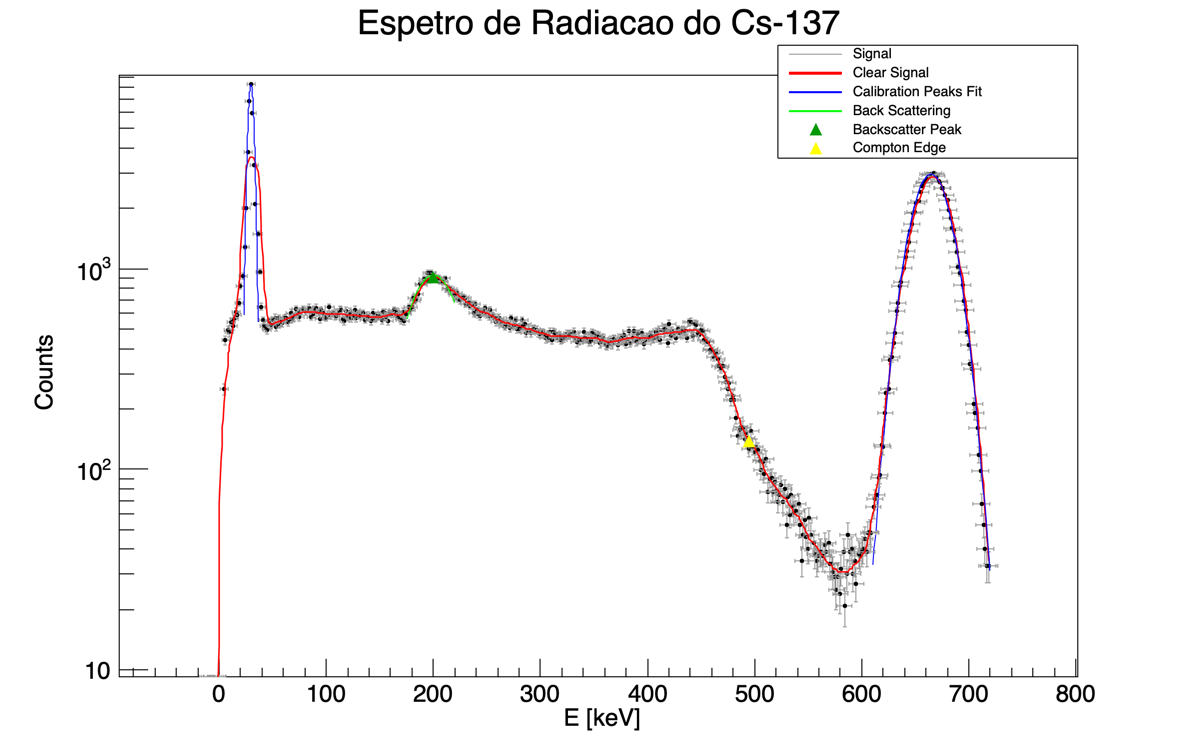
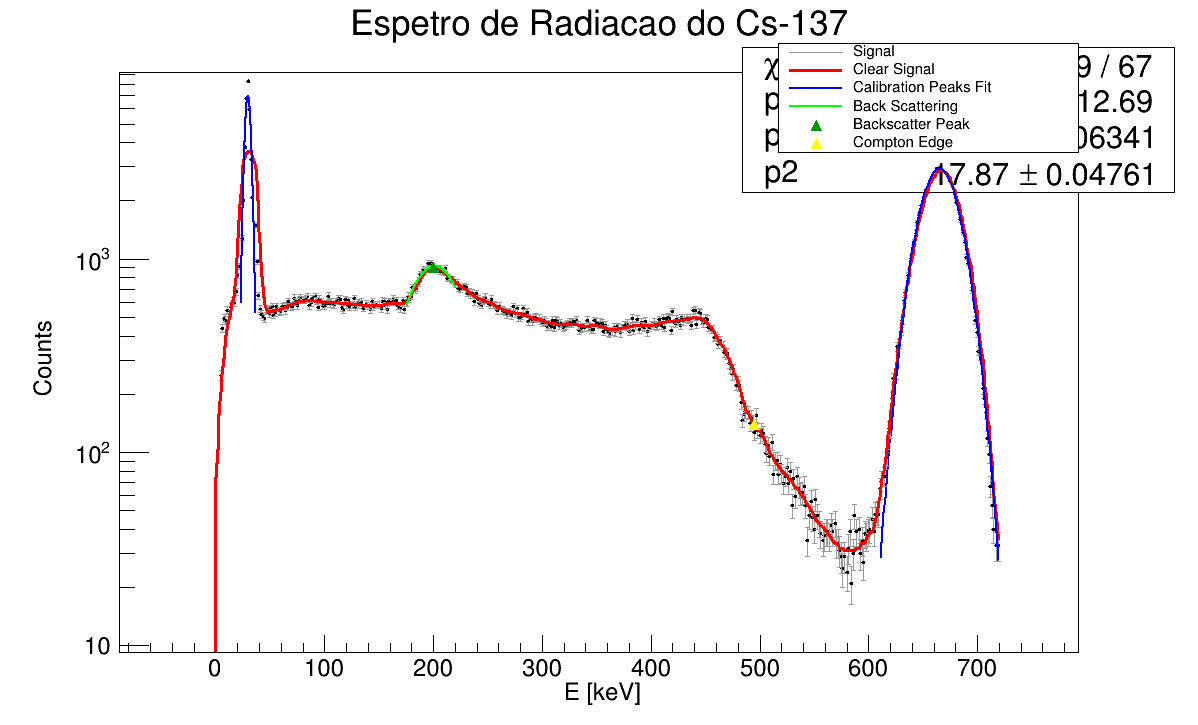
mudanca ex

diff --git a/Gama/main/Analise.cpp b/Gama/main/Analise.cpp
@@ -119,7 +119,7 @@ int main(){
     c1.Update();
     c1.SaveAs("Graphs/Espetro_Ambiente_Smoothed.png");
     c1.WaitPrimitive();
-    A.Run("TRUE");
+    //A.Run("TRUE");
     gSystem->ProcessEvents();
 
         
@@ -134,7 +134,7 @@ int main(){
         if(rad_cs[i].first < 720){
             n = G_Cs.GetN();
             G_Cs.SetPoint(n, rad_cs[i].first, rad_cs[i].second);
-            G_Cs.SetPointError(n,0.006*rad_cs[i].first+3.6,sqrt(rad_cs[i].second));
+            G_Cs.SetPointError(n,0/*0.006*rad_cs[i].first+3.6*/,sqrt(rad_cs[i].second));
         }
     }
     G_Cs.SetLineColor(kGray+1);
@@ -251,7 +251,7 @@ int main(){
         if(rad_co[i].first > 1400){continue;}
         n = G_Co.GetN();
         G_Co.SetPoint(n, rad_co[i].first, rad_co[i].second);
-        G_Co.SetPointError(n,0.006*rad_co[i].first+3.6,sqrt(rad_co[i].second));
+        G_Co.SetPointError(n,0/*0.006*rad_co[i].first+3.6*/,sqrt(rad_co[i].second));
     }
     G_Co.SetLineColor(kGray+1);
     G_Co.SetMarkerStyle(20);
@@ -359,7 +359,7 @@ int main(){
     for (int i = 0; i < rad_am.size(); i++){
         n = G_Am.GetN();
         G_Am.SetPoint(n, rad_am[i].first, rad_am[i].second - rad_ambiente_smoothed[i].second/4);
-        G_Am.SetPointError(n,0.006*rad_am[i].first+3.6,sqrt(rad_am[i].second));
+        G_Am.SetPointError(n,0/*0.006*rad_am[i].first+3.6*/,sqrt(rad_am[i].second));
     }
     G_Am.SetLineColor(kGray+1);
     G_Am.SetMarkerStyle(20);
